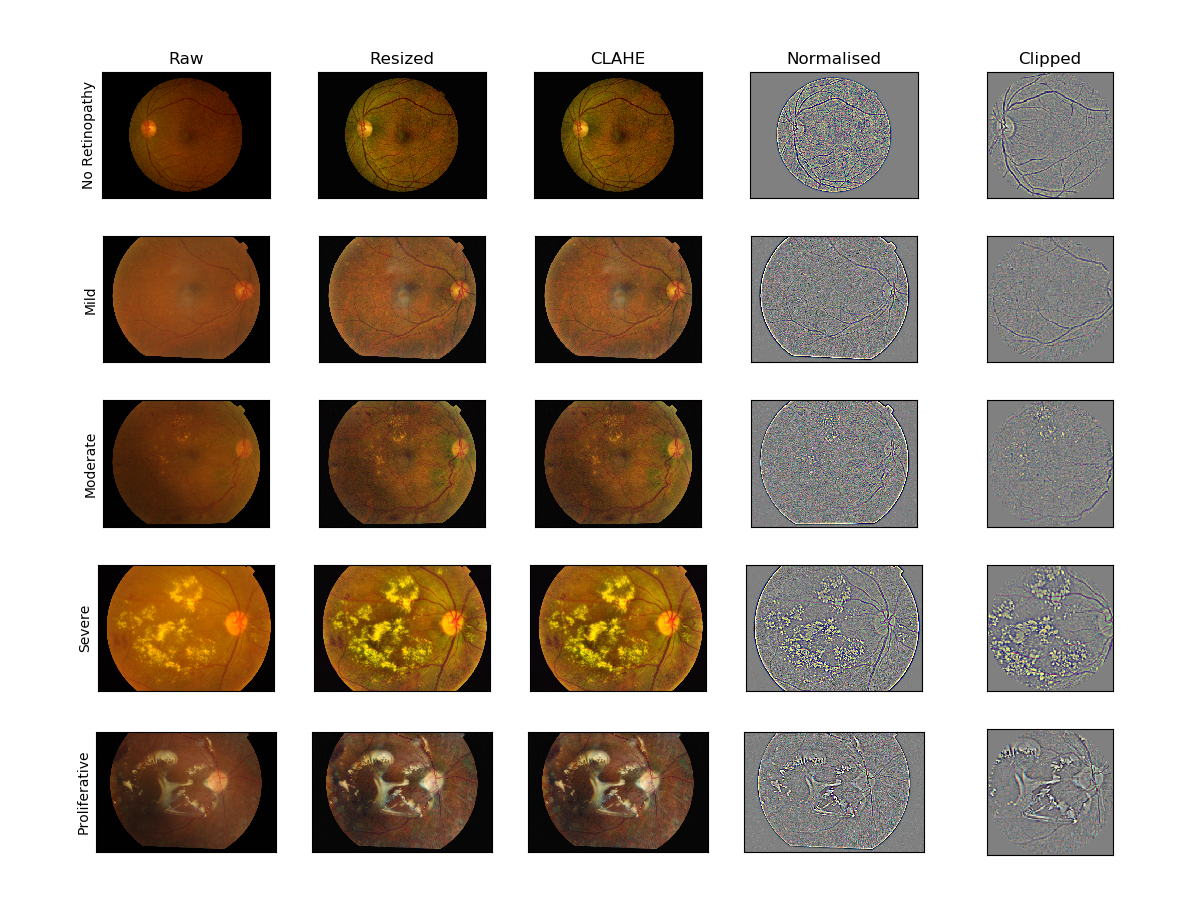
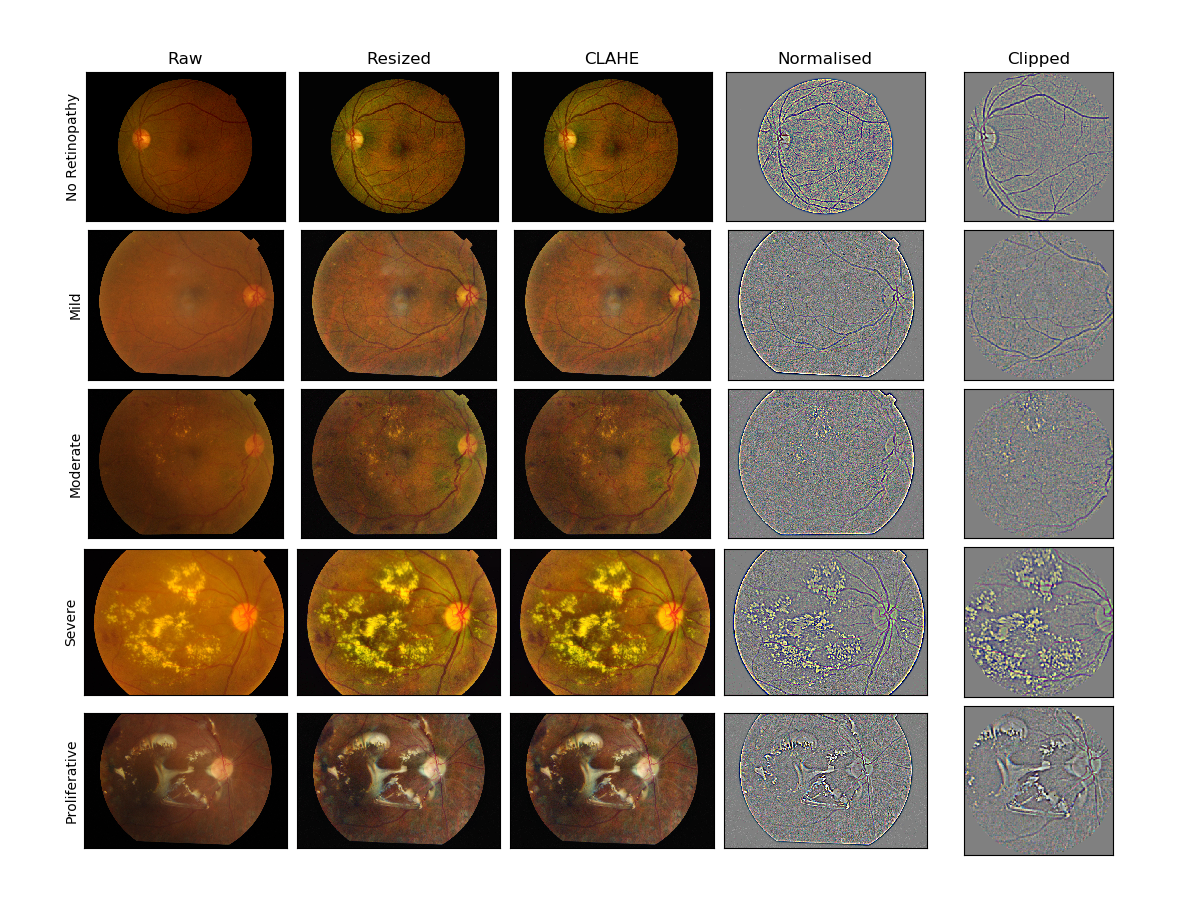
slight improvements to diagrams

diff --git a/processing/processing_eda.py b/processing/processing_eda.py
@@ -55,8 +55,8 @@ def exemplar_stages ():
 		bottom=0.05,
 		left=0.07,
 		right=0.95,
-		hspace=0.3,
-		wspace=0.2
+		hspace=0.06,
+		wspace=0.05
 	)
 
 def augmentations ():
@@ -100,7 +100,7 @@ def low_quality_stages ():
 		for y, fname in enumerate(col):
 			images[y][x] = proc[0]('images/overunder/' + fname)
 	draw_samples(
-		images, ['Original', 'Processed'], ['']*cols, figsize=((16, 4)),
+		images, ['Original', 'Processed'], ['']*cols, figsize=((16, 6)),
 		top=0.95,
 		bottom=0.05,
 		left=0.03,
@@ -110,7 +110,7 @@ def low_quality_stages ():
 	)
 
 
-exemplar_stages()
-augmentations()
-misclassified()
+# exemplar_stages()
+# augmentations()
+# misclassified()
 low_quality_stages()
